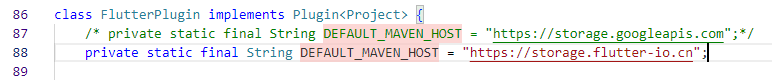
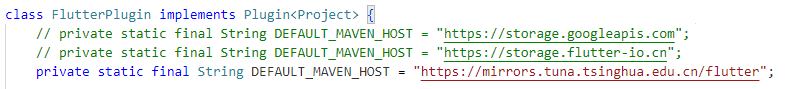
docs📝: update docs

diff --git a/src/bug/flutter-assembleDebug.md b/src/bug/flutter-assembleDebug.md
@@ -17,33 +17,114 @@ category:
 然后进行以下修改：
 1. 60行左右进行第一次修改：
 ![](./images/flutter-pathfile-setting2.png) 
-```text
+```json
 repositories {
-    /* google()
-    mavenCentral()*/
-    maven { url 'https://maven.aliyun.com/repository/google' }
-    maven { url 'https://maven.aliyun.com/repository/jcenter' }
-    maven { url 'https://maven.aliyun.com/nexus/content/groups/public' }
+    maven{
+        allowInsecureProtocol = true
+        url 'https://maven.aliyun.com/repository/google' 
+    }
+    maven{
+        allowInsecureProtocol = true
+        url 'https://maven.aliyun.com/repository/google-plugin' 
+    }
+    maven{
+        allowInsecureProtocol = true
+        url 'https://maven.aliyun.com/repository/public' 
+    }
+    maven{
+        allowInsecureProtocol = true
+        url 'https://maven.aliyun.com/repository/jcenter'
+    }
+    google()
+    mavenCentral()
 }
 ```
 2. 87行左右进行第二次修改：
 ![](./images/flutter-pathfile-setting1.png) 
 ```text
-/* private static final String DEFAULT_MAVEN_HOST = "https://storage.googleapis.com";*/
-private static final String DEFAULT_MAVEN_HOST = "https://mirrors.tuna.tsinghua.edu.cn/help/flutter/";
+//原镜像
+//private static final String DEFAULT_MAVEN_HOST = "https://storage.googleapis.com";
+//网上也有人说有这个，但是又说不可用了，所以最好用下面的清华同方或者腾讯云镜像
+//private static final String DEFAULT_MAVEN_HOST = "https://storage.flutter-io.cn";
+//清华同方镜像
+private static final String DEFAULT_MAVEN_HOST = "https://mirrors.tuna.tsinghua.edu.cn/flutter";
+//腾讯云镜像
+//private static final String DEFAULT_MAVEN_HOST = "https://mirrors.cloud.tencent.com/flutter";
 ```
+
+
+
+
 3. 回到flutter项目文件中的android/build.gradle
 ![](./images/flutter-run-android.png)  
-修改以下：
-![](./images/flutter-run-android-setting.png)  
-```text
-repositories {
-    // google()
-    // mavenCentral()
-    maven { url 'https://maven.aliyun.com/repository/google' }
-    maven { url 'https://maven.aliyun.com/repository/jcenter' }
-    maven { url 'https://maven.aliyun.com/nexus/content/groups/public' }
+修改此文件的两个地方，分别是`buildscript.repositories`和`allprojects.repositories`：
+```json
+buildscript {
+    repositories {
+        maven{
+            allowInsecureProtocol = true
+            url 'https://maven.aliyun.com/repository/google'
+        }
+        maven{
+            allowInsecureProtocol = true
+            url 'https://maven.aliyun.com/repository/google-plugin'
+        }
+        maven{
+            allowInsecureProtocol = true
+            url 'https://maven.aliyun.com/repository/public'
+        }
+        maven{
+            allowInsecureProtocol = true
+            url 'https://maven.aliyun.com/repository/jcenter'
+        }
+        google()
+        mavenCentral()
+    }
+
+}
+
+allprojects {
+    repositories {
+        maven{
+            allowInsecureProtocol = true
+            url 'https://maven.aliyun.com/repository/google'
+        }
+        maven{
+            allowInsecureProtocol = true
+            url 'https://maven.aliyun.com/repository/google-plugin'
+        }
+        maven{
+            allowInsecureProtocol = true
+            url 'https://maven.aliyun.com/repository/public'
+        }
+        maven{
+            allowInsecureProtocol = true
+            url 'https://maven.aliyun.com/repository/jcenter'
+        }
+        google()
+        mavenCentral()
+    }
 }
 ```
 
 4. 再次在项目目录路径下终端运行`flutter run`
+
+
+若上述步骤都试过无效，删除下面路径的两个文件，分别是`caches`和`wrapper/dists`：
+![](./images/gradle-path.png)
+
+:::warning 注意
+上面步骤修改完，无论是AS上运行，还是终端上输入`flutter run`命令，可能还是会觉得有点慢`Running Gradle task 'assembleDebug'`，此时你可以看`wrapper/dists`文件下的文件大小是否在增长，若增长可观，就代码等待一会，一般大小会是400M左右，具体可看下图。
+:::
+
+![](./images/gradle-file-size.png) 
+
+
+有可能你的`wrapper/dists`下有多个文件，你知道看哪一个，可以在项目的android文件夹下要下载哪个文件：
+![](./images/gradle-version.png) 
+
+还可以可能会提示报错如`Could not get source at xxxx`和`xecution failed for task '':app:checkDebugAarMetadata'`，大致意思意思不能在阿里云获取资源啥的，但是跑一会就莫名奇妙没报错了。以上也是我最终成功跑起来的配置。
+
+上面的方法都是笔者总结出来的，然后最终运行成功：
+
+![](./images/flutter-run-android.png) 

diff --git a/src/bug/flutter-doctor-error.md b/src/bug/flutter-doctor-error.md
@@ -57,8 +57,8 @@ git config --global --unset https.proxy
 
 1. 打开flutter目录，如`flutter\packages\flutter_tools\lib\src\http_host_validator.dart`
 2. 打开`http_host_validator.dart`文件，将`https://maven.google.com/`修改为`https://dl.google.com/dl/android/maven2/`
-3. 还是这个文件，将kPubDevHttpHost的值改为`https://pub.flutter-io.cn/`，将kgCloudHttpHost的值改为`https://mirrors.tuna.tsinghua.edu.cn/help/flutter/`。
-4. 关闭所有打开了flutterSDK的程序，找到`flutter\bin\cache`目录下的flutter_tools.snapshot文件，永久删除。
-5. 重新运行终端执行flutter doctor，自动下载文件，解决问题。
+3. ==关闭所有打开了flutterSDK的程序==，找到`flutter\bin\cache`目录下的flutter_tools.snapshot文件，永久删除，==不用删除cache文件夹，不然重新运行要下载很多东西==。
+4. 重新运行终端执行flutter doctor，自动下载文件，解决问题。
+![](./images/flutter-doctor-all-success.png)
 
 

diff --git a/src/web/desktop-dev/Tauri/install-rust.md b/src/web/desktop-dev/Tauri/install-rust.md
@@ -1,0 +1,39 @@
+---
+title: 安装rust
+date: 2023-06-01
+category:
+  - Rust
+---
+
+
+## 下载
+
+[下载地址](https://www.rust-lang.org/zh-CN/tools/install)
+
+
+## 运行
+
+1. 下载后的文件叫`rustup-init.exe`，双击运行，到下图输入`1`后回车：
+![](./images/install-rust.png)
+2. 等待下载完成，会提示让你回车以继续`press enter to continue`
+3. 安装目录在`C:\Users\admin\.cargo\bin`
+4. 将上面的安装目录添加进Path环境变量
+![](./images/rust-env.png)
+5. 终端输入`rustup`回车后不报错即安装成功
+6. [rust使用参考文档](https://www.rust-lang.org/zh-CN/learn)
+
+
+
+## 常用命令
+1. 更新
+```bash
+rustup update
+```
+2. 卸载
+```bash
+rustup self uninstall
+```
+3. 查看版本
+```bash
+rustc --version
+```

diff --git a/src/web/desktop-dev/Tauri/README.md b/src/web/desktop-dev/Tauri/README.md
@@ -1,0 +1,9 @@
+---
+title: Tauri桌面端开发技术
+icon: desktop-dev
+date: 2023-06-01
+index: false
+article: false 
+---
+
+
